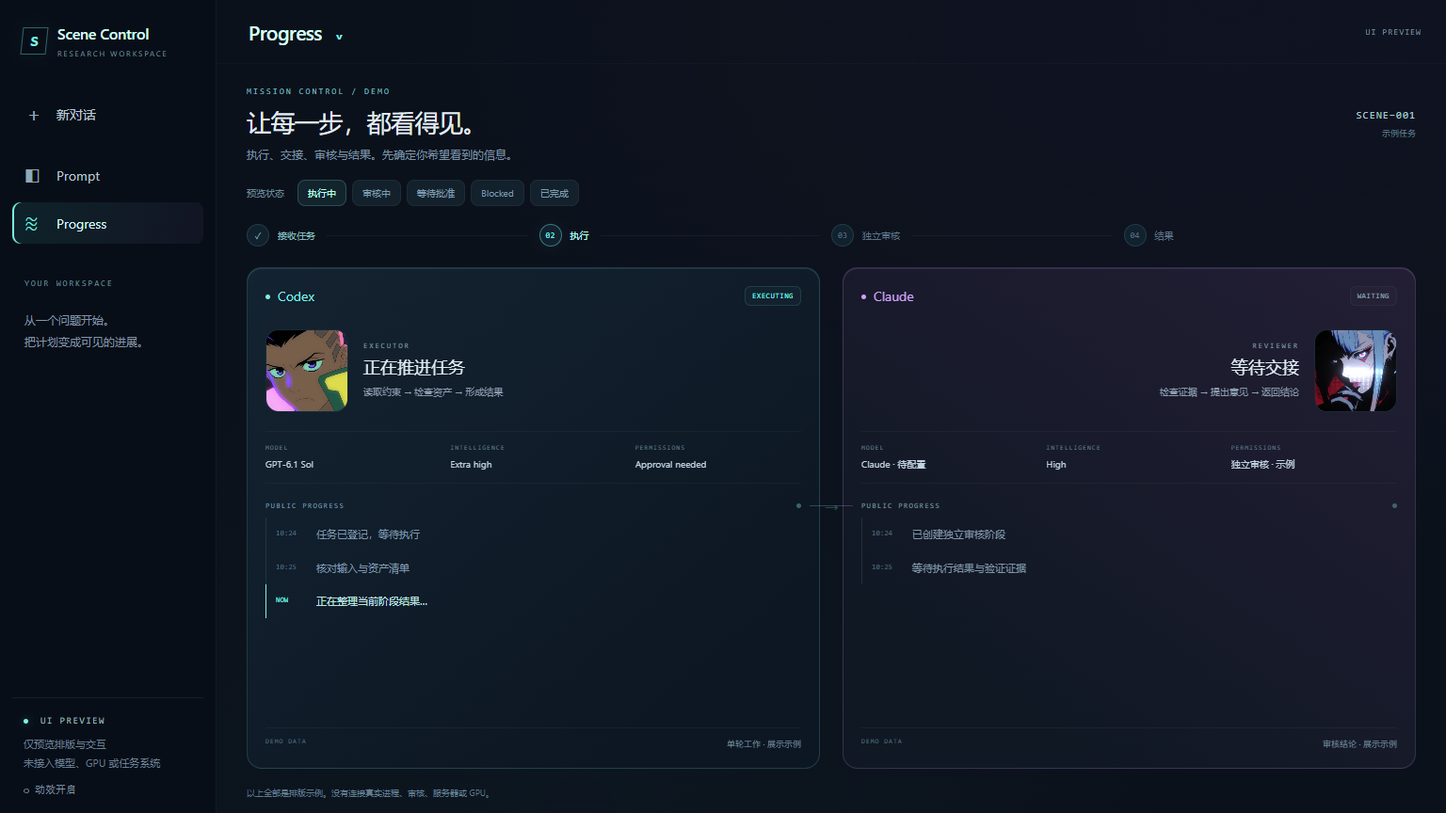
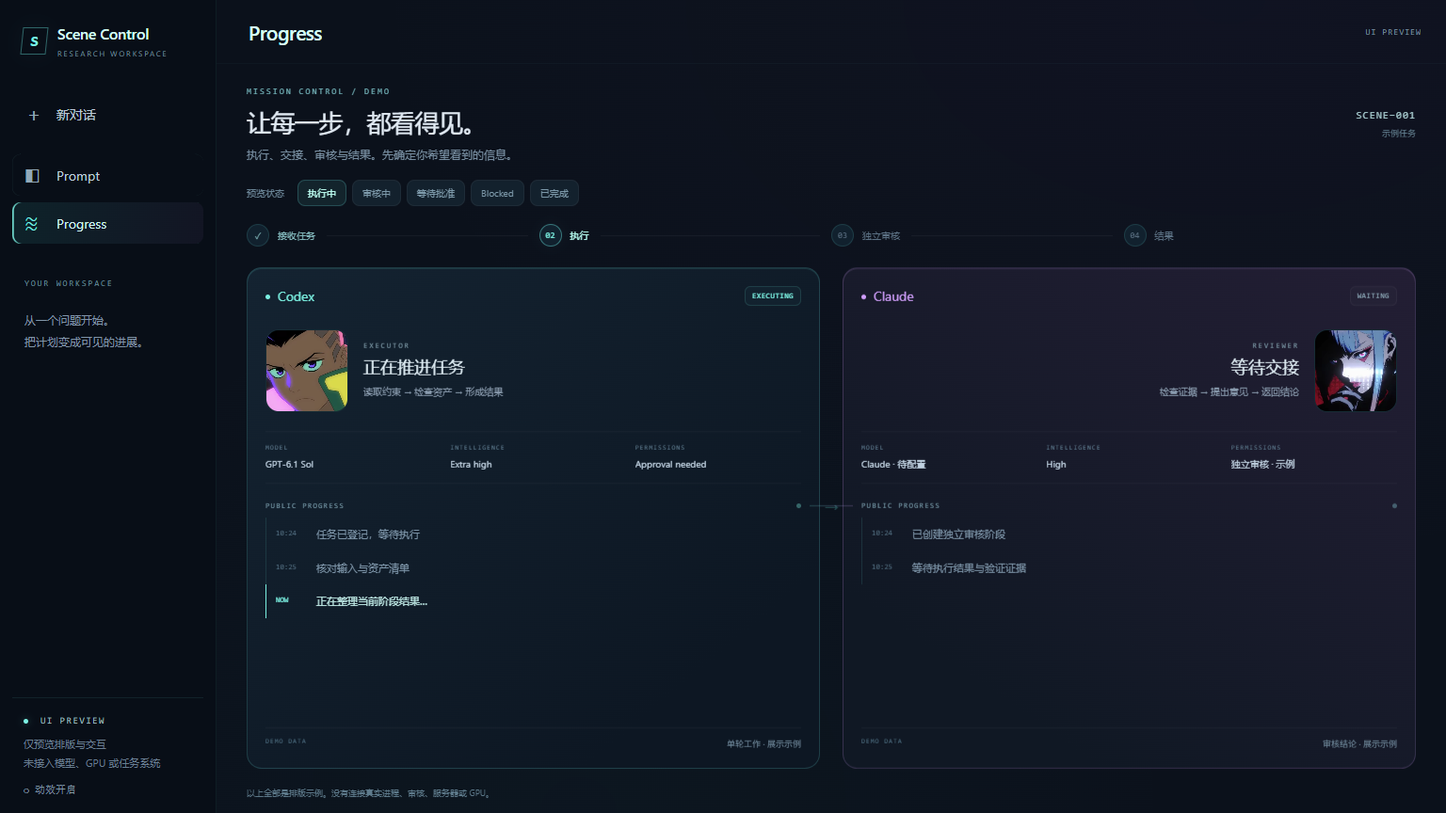
Refine preview navigation and animated upward settings menus

diff --git a/ui_preview/static/style.css b/ui_preview/static/style.css
@@ -27,21 +27,15 @@ button:disabled{opacity:.4;cursor:not-allowed}
 #motion-toggle{background:none;padding:12px 0 0;color:#8199a9;font-size:11px;letter-spacing:0}
 .app{display:flex;flex-direction:column;min-width:0;min-height:0}
 .topbar{display:flex;gap:18px;align-items:center;height:68px;padding:0 26px;border-bottom:1px solid #6ceee608;flex:none}
-.page-switch{position:relative}
-.page-switch>summary{list-style:none;display:flex;align-items:center;gap:14px;padding:8px;border-radius:9px;font-size:21px;font-weight:600;letter-spacing:-.5px;color:#d7fff6}
-.page-switch>summary::-webkit-details-marker{display:none}
-.page-switch>summary:hover{background:#142431}
-.chevron{font-size:14px;color:var(--cyan)}
-.page-menu{position:absolute;top:46px;left:0;background:#132231;border:1px solid #6ceee630;padding:6px;border-radius:13px;width:260px;box-shadow:0 15px 40px #0008;z-index:10}
-.page-menu a{display:block;border-radius:8px;padding:12px;font-size:14px}
-.page-menu a:hover{background:#223649}
-.page-menu small{display:block;font-size:11px;color:var(--muted);margin-top:6px}
+.page-title{margin:0;padding:8px;font-size:21px;font-weight:600;letter-spacing:-.5px;color:#d7fff6;cursor:default}
 .preview-badge{font:9px Consolas,monospace;letter-spacing:1px;color:#768b9d;margin-left:auto;white-space:nowrap}
 .gpu-chip{display:flex;align-items:center;gap:13px;margin-left:auto;border:1px solid #6ceee62b;border-radius:9px;padding:8px 11px;background:#101c26;color:#94bcbf;font-size:10px;line-height:1}
 .gpu-icon{color:var(--cyan);font-size:17px}
 .gpu-chip b{color:#d0fff3;font-size:13px;font-weight:500}
 .gpu-chip small{font-size:9px;color:#6f919e}
 .gpu-chip em{font:7px Consolas,monospace;color:#607d8a;letter-spacing:1px;border-left:1px solid #6ceee627;padding-left:8px}
+.gpu-memory{display:flex;align-items:center;gap:6px;white-space:nowrap}
+.memory-percent{font-size:8px;color:#a3d5cf;border:1px solid #6ceee623;border-radius:4px;padding:3px}
 html[data-page=progress] .gpu-chip{display:none}
 .gpu-chip+.preview-badge{margin-left:0}
 html[data-page=progress] .preview-badge{margin-left:auto}
@@ -82,12 +76,27 @@ html[data-page=progress] .preview-badge{margin-left:auto}
 textarea::placeholder{color:#849aab}
 .composer-bottom{display:flex;align-items:center;gap:9px;border-top:1px solid #6ceee612;padding-top:9px}
 .settings-row{display:flex;align-items:center;gap:5px;flex-wrap:wrap;flex:1}
-.setting select{background:#223444;border:1px solid #6ceee60b;border-radius:15px;padding:5px 6px;color:#bdd5dc;font-size:10px;max-width:176px;min-height:28px}
-.setting.permission select{color:#afe2dc;background:#24403f66}
-.setting.mode select{color:#cebbeb;background:#b57efc14}
+.setting-trigger{display:flex;align-items:center;gap:7px;background:#223444;border:1px solid #6ceee60b;border-radius:15px;padding:5px 9px;color:#bdd5dc;font-size:10px;max-width:190px;min-height:28px;transition:background 150ms,border-color 150ms,box-shadow 150ms}
+.setting-trigger:hover,.setting-trigger[aria-expanded=true]{background:#2b4352;border-color:#6ceee63c;box-shadow:0 0 13px #6ceee606}
+.permission .setting-trigger{color:#afe2dc;background:#24403f66}
+.mode .setting-trigger{color:#cebbeb;background:#b57efc14}
+.setting-chevron{width:12px;height:12px;fill:none;stroke:currentColor;stroke-width:1.6;flex:none;transition:transform 180ms cubic-bezier(.16,1,.3,1)}
+.setting-trigger[aria-expanded=true] .setting-chevron{transform:rotate(180deg)}
+.setting-menu{position:fixed;inset:auto;margin:0;width:270px;max-width:calc(100vw - 24px);padding:6px;border:1px solid #86b7c133;border-radius:14px;background:#15212ff5;backdrop-filter:blur(20px);color:var(--text);box-shadow:0 12px 40px #0007,0 0 0 1px #0002;overflow:auto;overscroll-behavior:contain;scrollbar-width:thin;transform-origin:bottom left;opacity:0;transform:translateY(8px) scale(.98);transition:opacity 150ms ease-out,transform 180ms cubic-bezier(.16,1,.3,1),display 180ms allow-discrete,overlay 180ms allow-discrete}
+.setting-menu:popover-open{opacity:1;transform:translateY(0) scale(1)}
+@starting-style{.setting-menu:popover-open{opacity:0;transform:translateY(8px) scale(.98)}}
+.setting-menu::backdrop{background:transparent}
+.menu-heading{font-size:10px;color:#7e99ab;padding:9px 10px 8px;letter-spacing:.3px}
+.setting-option{width:100%;display:flex;align-items:center;justify-content:space-between;gap:12px;text-align:left;border-radius:9px;padding:10px;background:none;color:#c6d8e6;font-size:12px;transition:background 120ms,color 120ms}
+.setting-option:hover,.setting-option:focus-visible{background:#28404f;color:#e9fff8}
+.setting-option[aria-selected=true]{background:#6ceee60b;color:#b8fff0}
+.option-copy{display:flex;flex-direction:column;gap:5px}
+.option-copy small{font-size:10px;line-height:1.5;color:#7d9aa9}
+.option-check{width:15px;height:15px;fill:none;stroke:var(--cyan);stroke-width:1.6;opacity:0;flex:none;transition:opacity 120ms}
+.setting-option[aria-selected=true] .option-check{opacity:1}
 .send{flex:none;width:35px;height:35px;background:#8bf3e5;border-radius:50%;color:#08231d;font-size:24px;line-height:1;box-shadow:0 0 16px #6ceee61a}
 .send:hover{background:#bdfff3;box-shadow:0 0 21px #6ceee638}
-.composer-note{display:flex;justify-content:space-between;gap:14px;font-size:9px;color:#6a8394;line-height:1.5;margin-top:9px}
+.composer-note{display:flex;justify-content:flex-end;gap:14px;font-size:9px;color:#6a8394;line-height:1.5;margin-top:9px}
 .composer-note span:first-child{min-width:0}
 .composer-note span:last-child{white-space:nowrap}
 .prompt-footnote{text-align:center;font-size:9px;color:#5f788b;padding:11px 0 0;letter-spacing:.3px}
@@ -147,11 +156,14 @@ textarea::placeholder{color:#849aab}
 .approval-demo button+button{background:#342c2d;color:#d2acab}
 .decision-note{display:block;color:#8c9b8b;font-size:9px;margin-top:5px}
 .progress-footnote{font-size:9px;color:#5f7c8d;flex:none}
+.nav,.starter-row button,.scenario-bar button,.send{transition:background 150ms ease-out,border-color 150ms ease-out,box-shadow 150ms ease-out,color 150ms ease-out}
+.workspace>.prompt-page,.workspace>.progress-page{animation:page-enter 180ms cubic-bezier(.16,1,.3,1) both}
+@keyframes page-enter{from{opacity:.45;transform:translateY(4px)}to{opacity:1;transform:translateY(0)}}
 @keyframes beacon{0%,100%{opacity:.35;box-shadow:0 0 0 transparent}55%{opacity:1;box-shadow:0 0 13px #6ceee660}}
 html.motion-off *,html.page-hidden *{animation:none!important;transition:none!important}
 .htmx-request .send{opacity:.4}
 @media(prefers-reduced-motion:reduce){*{animation:none!important;transition:none!important}}
 @media(max-width:1200px){body{grid-template-columns:190px minmax(0,1fr)}.prompt-page{padding:0 25px 12px}.progress-page{padding:20px 23px 14px;gap:16px}.agent{padding:15px}.agent-hero{gap:12px;margin:18px 0}.agent-hero video{width:74px;height:74px}.agent-hero h2{font-size:16px}.specs{gap:10px}.gpu-chip{gap:9px}}
-@media(max-width:950px){body{grid-template-columns:64px minmax(0,1fr)}.sidebar{padding:22px 7px}.brand{padding:0 8px 24px}.brand>span:last-child,.nav>span:last-child,.side-label,.side-copy,.side-footer{display:none}.nav{padding:12px;justify-content:center}.topbar{padding:0 15px;gap:10px}.prompt-page{padding:0 20px 12px}.progress-page{padding:18px 20px}.agent-hero .muted{display:none}.specs dd{font-size:9px}.settings-row{gap:3px}.setting select{max-width:147px}.preview-badge{font-size:8px}}
+@media(max-width:950px){body{grid-template-columns:64px minmax(0,1fr)}.sidebar{padding:22px 7px}.brand{padding:0 8px 24px}.brand>span:last-child,.nav>span:last-child,.side-label,.side-copy,.side-footer{display:none}.nav{padding:12px;justify-content:center}.topbar{padding:0 15px;gap:10px}.prompt-page{padding:0 20px 12px}.progress-page{padding:18px 20px}.agent-hero .muted{display:none}.specs dd{font-size:9px}.settings-row{gap:3px}.setting-trigger{max-width:170px}.preview-badge{font-size:8px}}
 @media(max-width:650px){.gpu-detail,.gpu-chip em,.preview-badge{display:none}.gpu-chip{padding:7px;gap:7px}.topbar{height:58px}.prompt-page{padding:0 12px 10px}.welcome h1{font-size:24px}.welcome>p{font-size:12px}.starter-row{flex-direction:column;align-items:center}.composer-caption,.composer-note>span:last-child{display:none}.composer{padding:10px;border-radius:17px}.setting select{max-width:150px;font-size:9px}.progress-page{overflow:auto;display:block}.progress-heading{margin-bottom:18px}.progress-heading h1{font-size:21px}.mission-id{display:none}.scenario-bar{margin-bottom:18px}.pipeline{margin-bottom:18px}.pipeline-step{font-size:8px;gap:5px}.pipeline-step:not(:last-child)::after{margin:0 5px}.agents{grid-template-columns:1fr;margin-bottom:14px}.agent{min-height:390px}.handoff{display:none}.progress-footnote{margin-top:12px}}
 @media(max-height:700px) and (min-width:651px){.progress-page{padding-top:16px;gap:12px}.progress-heading h1{font-size:22px;margin-bottom:7px}.eyebrow{margin-bottom:7px}.agent-hero{margin:13px 0}.agent-hero video{width:66px;height:66px}.specs{padding:9px 0;margin-bottom:12px}.agent>footer{margin-top:8px}.welcome{padding-bottom:20px}.welcome h1{font-size:26px}.welcome>p{margin-bottom:17px}.starter-row button{padding:8px 12px}#prompt{min-height:54px;height:60px}.composer-top{margin-bottom:2px}.composer-note{margin-top:6px}.prompt-footnote{padding-top:7px}}

diff --git a/ui_preview/static/ui.js b/ui_preview/static/ui.js
@@ -13,24 +13,33 @@
     const paused = document.hidden || reduced.matches || document.documentElement.classList.contains('motion-off');
     document.querySelectorAll('video').forEach(v => { if (paused) v.pause(); else v.play().catch(() => {}); });
   }
+  function syncPickers() {
+    document.querySelectorAll('[data-setting]').forEach(group => {
+      const value = group.querySelector('input').value, button = group.querySelector('.setting-trigger');
+      button.querySelector('.setting-value').textContent = value;
+      button.setAttribute('aria-label', button.dataset.settingLabel+'：'+value);
+      group.querySelectorAll('[data-option]').forEach(option => option.setAttribute('aria-selected', String(option.dataset.option === value)));
+    });
+  }
   function refresh() {
     const page = q('[data-view]')?.dataset.view || 'prompt';
     document.documentElement.dataset.page = page;
     q('#page-name').textContent = page === 'prompt' ? 'Prompt' : 'Progress';
     document.querySelectorAll('[data-nav]').forEach(e => e.setAttribute('aria-current', e.dataset.nav === page ? 'page' : 'false'));
-    q('#page-switch').open = false;
     document.querySelectorAll('[data-draft]').forEach(e => { if (draft.has(e.name)) e.value = draft.get(e.name); });
+    syncPickers();
     motion();
   }
   document.addEventListener('input', e => { if (e.target.matches('[data-draft]')) remember(); });
   document.addEventListener('change', e => {
     if (!e.target.matches('[data-draft]')) return;
     remember();
-    if (q('#mode-note')) q('#mode-note').textContent = e.target.name === 'mode' ?
-      ({ Task:'Task：展示任务执行交互。', Plan:'Plan：展示先规划、再实施的交互。', Goal:'Goal：展示持续目标的交互。' }[e.target.value] + ' 当前仅预览。') :
-      '所有设置仅作交互预览，没有改变真实模型或权限。';
+    syncPickers();
   });
-  document.addEventListener('htmx:beforeSwap', e => { if (e.target.id === 'workspace' && !fresh) remember(); });
+  document.addEventListener('htmx:beforeSwap', e => {
+    document.querySelectorAll('.setting-menu:popover-open').forEach(menu => menu.hidePopover());
+    if (e.target.id === 'workspace' && !fresh) remember();
+  });
   document.addEventListener('htmx:afterSwap', e => {
     if (e.target.id === 'workspace') { refresh(); fresh = false; }
     if (e.target.id === 'messages') { const feed = q('#conversation'); feed.scrollTop = feed.scrollHeight; }
@@ -43,12 +52,34 @@
     if (starter) { q('#prompt').value = starter.dataset.starter; remember(); q('#prompt').focus(); }
     const decision = e.target.closest('[data-preview-decision]');
     if (decision) decision.closest('.approval-demo').querySelector('.decision-note').textContent = '已演示“'+decision.dataset.previewDecision+'”；未发送真实批准。';
-    if (!e.target.closest('#page-switch')) q('#page-switch').open = false;
+    const option = e.target.closest('[data-option]');
+    if (option) {
+      const menu = option.closest('.setting-menu'), group = q('[data-setting="'+menu.dataset.field+'"]');
+      const input = group.querySelector('input');input.value = option.dataset.option;
+      input.dispatchEvent(new Event('change',{bubbles:true}));menu.hidePopover();group.querySelector('.setting-trigger').focus();
+    }
   });
   document.addEventListener('keydown', e => {
-    if (e.key === 'Escape') q('#page-switch').open = false;
     if (e.target.id === 'prompt' && e.key === 'Enter' && !e.shiftKey && !e.isComposing) { e.preventDefault(); q('#prompt-form').requestSubmit(); }
+    const menu = e.target.closest('.setting-menu');
+    if (menu && e.key === 'Escape') { e.preventDefault();menu.hidePopover();q('[popovertarget="'+menu.id+'"]').focus(); }
+    if (menu && ['ArrowDown','ArrowUp','Home','End'].includes(e.key)) {
+      e.preventDefault();const options = Array.from(menu.querySelectorAll('[data-option]')), index = options.indexOf(document.activeElement);
+      options[e.key === 'Home' ? 0 : e.key === 'End' ? options.length-1 : (index+(e.key === 'ArrowDown' ? 1 : options.length-1))%options.length].focus();
+    }
+    if (e.target.closest('.setting-trigger') && ['ArrowDown','ArrowUp'].includes(e.key)) { e.preventDefault();q('#'+e.target.closest('.setting-trigger').getAttribute('popovertarget')).showPopover(); }
   });
+  document.addEventListener('beforetoggle', e => {
+    const menu = e.target;if (!menu.matches('.setting-menu') || e.newState !== 'open') return;
+    const trigger = q('[popovertarget="'+menu.id+'"]'), r = trigger.getBoundingClientRect(), width = Math.min(270,innerWidth-24);
+    menu.style.width = width+'px';menu.style.left = Math.max(12,Math.min(r.left,innerWidth-width-12))+'px';
+    menu.style.bottom = (innerHeight-r.top+10)+'px';menu.style.maxHeight = Math.max(80,r.top-22)+'px';
+  },true);
+  document.addEventListener('toggle', e => {
+    const menu = e.target;if (!menu.matches('.setting-menu')) return;
+    const open = e.newState === 'open';q('[popovertarget="'+menu.id+'"]').setAttribute('aria-expanded',String(open));
+    if (open) (menu.querySelector('[aria-selected=true]') || menu.querySelector('[data-option]')).focus({preventScroll:true});
+  },true);
   q('#new-chat').addEventListener('click', () => { fresh = true; draft.set('prompt',''); draft.set('references',''); });
   q('#motion-toggle').onclick = () => {
     const paused = document.documentElement.classList.toggle('motion-off');

diff --git a/ui_preview/templates/partials/settings.html b/ui_preview/templates/partials/settings.html
@@ -1,5 +1,15 @@
-<label class="setting permission"><span class="sr-only">权限</span><select name="permission" data-draft aria-label="权限模式">{% for x in options.permissions %}<option>{{ x }}</option>{% endfor %}</select></label>
-<label class="setting"><span class="sr-only">模型</span><select name="model" data-draft aria-label="模型">{% for x in options.models %}<option>{{ x }}</option>{% endfor %}</select></label>
-<label class="setting"><span class="sr-only">推理强度</span><select name="effort" data-draft aria-label="推理强度">{% for x in options.efforts %}<option{% if x=='Extra high' %} selected{% endif %}>{{ x }}</option>{% endfor %}</select></label>
-<label class="setting"><span class="sr-only">速度</span><select name="speed" data-draft aria-label="速度模式">{% for x in options.speeds %}<option>{{ x }}</option>{% endfor %}</select></label>
-<label class="setting mode"><span class="sr-only">工作模式</span><select name="mode" data-draft aria-label="Task Plan Goal">{% for x in options.modes %}<option>{{ x }}</option>{% endfor %}</select></label>
+{% macro picker(field,label,values,current,modifier='') %}
+<div class="setting {{ modifier }}" data-setting="{{ field }}">
+  <input type="hidden" name="{{ field }}" value="{{ current }}" data-draft>
+  <button type="button" class="setting-trigger" popovertarget="menu-{{ field }}" aria-controls="menu-{{ field }}" aria-haspopup="listbox" aria-expanded="false" data-setting-label="{{ label }}" aria-label="{{ label }}：{{ current }}"><span class="setting-value">{{ current }}</span><svg class="setting-chevron" viewBox="0 0 16 16" aria-hidden="true"><path d="m4 6 4 4 4-4"/></svg></button>
+  <div class="setting-menu" id="menu-{{ field }}" data-field="{{ field }}" popover="auto" role="listbox" aria-label="{{ label }}">
+    <div class="menu-heading">{{ label }}</div>
+    {% for value in values %}<button type="button" class="setting-option" data-option="{{ value }}" role="option" aria-selected="{{ 'true' if value==current else 'false' }}"><span class="option-copy"><span>{{ value }}</span>{% if field=='permission' %}<small>{{ '由你确认需要批准的操作' if value=='Approval needed' else '自动执行工具与文件操作' }}</small>{% endif %}</span><svg class="option-check" viewBox="0 0 16 16" aria-hidden="true"><path d="m3 8 3 3 7-7"/></svg></button>{% endfor %}
+  </div>
+</div>
+{% endmacro %}
+{{ picker('permission','执行权限',options.permissions,'Approval needed','permission') }}
+{{ picker('model','模型',options.models,'GPT-6.1 Sol') }}
+{{ picker('effort','推理强度',options.efforts,'Extra high') }}
+{{ picker('speed','速度',options.speeds,'Standard') }}
+{{ picker('mode','工作模式',options.modes,'Task','mode') }}

diff --git a/ui_preview/templates/index.html b/ui_preview/templates/index.html
@@ -19,10 +19,8 @@
 </aside>
 <div class="app">
   <header class="topbar">
-    <details class="page-switch" id="page-switch"><summary><span id="page-name">{{ page|capitalize }}</span><span class="chevron">⌄</span></summary>
-      <nav class="page-menu" aria-label="切换页面"><a href="/?page=prompt" hx-get="/view/prompt" hx-target="#workspace">Prompt<small>输入问题，选择工作方式</small></a><a href="/?page=progress" hx-get="/view/progress" hx-target="#workspace">Progress<small>执行阶段与审核的视觉预览</small></a></nav>
-    </details>
-    <div class="gpu-chip" aria-label="示例 GPU 读数，仅用于排版"><span class="gpu-icon">▦</span><span>SQZ GPU</span><b>42<small>%</small></b><span class="gpu-detail">12.8<small> GiB</small></span><span class="gpu-detail">51<small>°C</small></span><em>DEMO</em></div>
+    <h1 class="page-title" id="page-name">{{ page|capitalize }}</h1>
+    <div class="gpu-chip" aria-label="示例 GPU：利用率42%，显存12.8 / 45.0 GiB，约28%"><span class="gpu-icon">▦</span><span>SQZ GPU</span><b>42<small>%</small></b><span class="gpu-memory" title="显存：已使用 / 总量"><span class="gpu-detail">12.8 / 45.0<small> GiB</small></span><span class="memory-percent">28%</span></span><span class="gpu-detail">51<small>°C</small></span><em>DEMO</em></div>
     <span class="preview-badge">UI PREVIEW</span>
   </header>
   <main id="workspace" class="workspace" aria-live="polite">{% include 'partials/'+page+'.html' %}</main>

diff --git a/ui_preview/templates/partials/prompt.html b/ui_preview/templates/partials/prompt.html
@@ -8,7 +8,7 @@
     <details class="references"><summary>＋ 引用材料与附件</summary><textarea name="references" data-draft rows="2" placeholder="粘贴引用文本，先预览材料区域的布局…" aria-label="引用材料"></textarea><span>附件上传尚未连接；此处仅展示引用文本输入。</span></details>
     <label class="sr-only" for="prompt">输入任务或问题</label><textarea id="prompt" name="prompt" data-draft maxlength="20000" placeholder="给 Codex 一项任务，或一起制定计划…" rows="3" required></textarea>
     <div class="composer-bottom"><div class="settings-row">{% include 'partials/settings.html' %}</div><button class="send" type="submit" aria-label="发送预览消息">↑</button></div>
-    <div class="composer-note"><span id="mode-note">所有选择只演示控件，不改变真实执行权限或订阅用量。</span><span>⇧ Enter 换行</span></div>
+    <div class="composer-note"><span>⇧ Enter 换行</span></div>
   </form>
   <footer class="prompt-footnote">Flask · Jinja2 · HTMX <span>你的布局，先于自动化。</span></footer>
 </section>

diff --git a/ui_preview/verify_ui.py b/ui_preview/verify_ui.py
@@ -35,6 +35,9 @@ def main():
         check('jinja_and_htmx_loaded',wait("document.querySelector('[data-view=prompt]')&&window.htmx&&htmx.version==='2.0.11'"))
         check('requested_defaults',js("document.querySelector('[name=model]').value==='GPT-6.1 Sol'&&document.querySelector('[name=effort]').value==='Extra high'"))
         check('preview_disclosure_present',js("document.body.textContent.includes('未接入模型、GPU 或任务系统')"))
+        check('single_navigation_no_header_dropdown',js("!document.querySelector('#page-switch,.page-menu')&&document.querySelector('#page-name').tagName==='H1'&&!!document.querySelector('#new-chat')"))
+        check('composer_explanation_removed',js("!document.querySelector('#mode-note')&&!document.querySelector('.composer').textContent.includes('不改变真实')"))
+        check('memory_fraction_and_percent',js("document.querySelector('.gpu-memory').textContent.includes('12.8 / 45.0')&&document.querySelector('.memory-percent').textContent==='28%'"))
         js("document.querySelector('#prompt').value='keep my draft';document.querySelector('#prompt').dispatchEvent(new Event('input',{bubbles:true}))")
         for w,h in ((1092,565),(1366,768),(1536,864),(1920,1000)):
             browser.size(w,h)
@@ -43,13 +46,28 @@ def main():
                 check('htmx_switch_'+page+'_'+str(w),wait("document.documentElement.dataset.page==='"+page+"'"))
                 result=js("(()=>{const r=e=>e.getBoundingClientRect(),inside=b=>b.width>0&&b.height>0&&b.left>=0&&b.top>=0&&b.right<=innerWidth+1&&b.bottom<=innerHeight+1, page=document.documentElement.dataset.page;return {body:document.documentElement.scrollHeight<=innerHeight&&document.documentElement.scrollWidth<=innerWidth,ui:page==='prompt'?inside(r(document.querySelector('#prompt')))&&inside(r(document.querySelector('.send')))&&inside(r(document.querySelector('.gpu-chip')))&&r(document.querySelector('.gpu-chip')).width<370:document.querySelector('.gpu-chip').getBoundingClientRect().height===0&&Array.from(document.querySelectorAll('.agent')).every(e=>inside(r(e)))}})()")
                 check('layout_'+page+'_'+str(w),result['body'] and result['ui'])
+                if page=='prompt':
+                    for field in ('permission','model','effort','speed','mode'):
+                        js("document.querySelector('[popovertarget=menu-"+field+"]').click()")
+                        check('upward_menu_'+field+'_'+str(w),wait("(()=>{const m=document.querySelector('#menu-"+field+"'),b=document.querySelector('[popovertarget=menu-"+field+"]'),r=m.getBoundingClientRect(),br=b.getBoundingClientRect();return m.matches(':popover-open')&&r.height>40&&r.bottom<=br.top&&r.top>=0&&r.left>=0&&r.right<=innerWidth})()"))
+                        js("document.querySelector('#menu-"+field+"').hidePopover()")
                 browser.capture(directory/(page+'-'+str(w)+'.png'))
         browser.size(1536,864)
         check('draft_survives_page_swaps',js("document.querySelector('#prompt').value==='keep my draft'"))
-        js("document.querySelector('[name=permission]').value='Full Access';document.querySelector('[name=permission]').dispatchEvent(new Event('change',{bubbles:true}));document.querySelector('[name=speed]').value='Fast';document.querySelector('[name=speed]').dispatchEvent(new Event('change',{bubbles:true}));document.querySelector('[name=mode]').value='Goal';document.querySelector('[name=mode]').dispatchEvent(new Event('change',{bubbles:true}))")
-        check('mode_visual_interaction',js("document.querySelector('#mode-note').textContent.includes('Goal')&&document.querySelector('#mode-note').textContent.includes('仅预览')"))
-        js("document.querySelector('#page-switch').open=true;document.querySelector('.page-menu a:last-child').click()")
-        check('header_switch_works',wait("document.documentElement.dataset.page==='progress'&&!document.querySelector('#page-switch').open"))
+        for field,value in (('permission','Full Access'),('speed','Fast'),('mode','Goal')):
+            js("document.querySelector('[popovertarget=menu-"+field+"]').click()")
+            check('picker_open_'+field,wait("document.querySelector('#menu-"+field+"').matches(':popover-open')"))
+            js("Array.from(document.querySelectorAll('#menu-"+field+" [data-option]')).find(o=>o.dataset.option==='"+value+"').click()")
+            check('picker_select_'+field,wait("document.querySelector('[name="+field+"]').value==='"+value+"'&&document.querySelector('[data-setting="+field+"] .setting-value').textContent==='"+value+"'&&!document.querySelector('#menu-"+field+"').matches(':popover-open')"))
+        js("document.querySelector('[popovertarget=menu-permission]').click()")
+        check('selected_option_focused',wait("document.activeElement?.dataset.option==='Full Access'"))
+        js("document.activeElement.dispatchEvent(new KeyboardEvent('keydown',{key:'ArrowUp',bubbles:true}))")
+        check('keyboard_arrow_navigation',js("document.activeElement?.dataset.option==='Approval needed'"))
+        browser.call('Input.dispatchKeyEvent',{'type':'keyDown','key':'Escape','code':'Escape','windowsVirtualKeyCode':27})
+        browser.call('Input.dispatchKeyEvent',{'type':'keyUp','key':'Escape','code':'Escape','windowsVirtualKeyCode':27})
+        check('escape_closes_menu_and_returns_focus',wait("!document.querySelector('#menu-permission').matches(':popover-open')&&document.activeElement.getAttribute('popovertarget')==='menu-permission'"))
+        js("document.querySelector('[data-nav=progress]').click()")
+        check('sidebar_is_page_switch',wait("document.documentElement.dataset.page==='progress'&&document.querySelector('#page-name').textContent==='Progress'"))
         js("document.querySelector('[data-nav=prompt]').click()")
         check('settings_retained',wait("document.querySelector('[name=permission]')?.value==='Full Access'&&document.querySelector('[name=speed]').value==='Fast'&&document.querySelector('[name=mode]').value==='Goal'"))
         js("document.querySelector('[name=channel]').value='analysis';document.querySelector('[name=channel]').dispatchEvent(new Event('change',{bubbles:true}));document.querySelector('#prompt').value='<img src=x onerror=alert(1)>';document.querySelector('.send').click()")

diff --git a/ui_preview/README.md b/ui_preview/README.md
@@ -5,8 +5,11 @@
 [Progress layout, synthetic data](preview-progress.png)
 
 Flask 3.1 / Jinja2 templates / locally pinned HTMX 2.0.11 / small native JavaScript.
-Cyberpunk styling on a chat layout; Prompt / Progress switch and GPU chip only in
-Prompt. Default controls: GPT-6.1 Sol, Extra high, Standard, Approval needed.
+Cyberpunk styling on a chat layout; the sidebar owns Prompt / Progress navigation
+and New chat, with a plain page title above. The compact GPU chip appears only in
+Prompt and shows memory used / total plus percentage. Default controls: GPT-6.1
+Sol, Extra high, Standard, Approval needed. Settings use upward opening popovers
+with short opacity/scale transitions, keyboard navigation and Escape dismissal.
 
 **All model, GPU, execution and review data here are illustrative.** Sending text
 renders a template response. No CLI, SSH, research file, production queue, approval,
